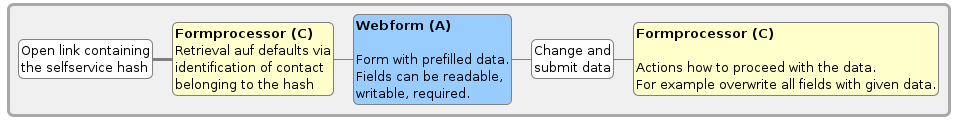
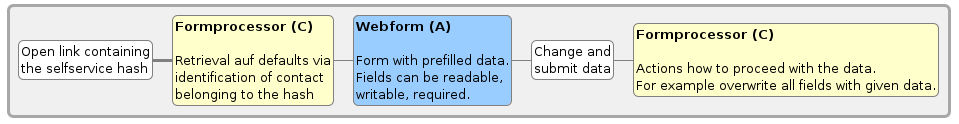
Change email images

Changed region(s): [[0.0, 0.0242, 0.9979, 0.9677]]

diff --git a/docs/img/selfservice-scheme.mm b/docs/img/selfservice-scheme.mm
@@ -82,7 +82,6 @@
     </p>
   </body>
 </html>
-
 </richcontent>
 <node TEXT="Enter email&#xa;address" STYLE_REF="Automatischer Prozess" ID="ID_315789229" CREATED="1697636598516" MODIFIED="1697637776347" BACKGROUND_COLOR="#ffffff" STYLE="bubble">
 <edge STYLE="bezier"/>
@@ -160,7 +159,7 @@
 </node>
 <node TEXT="Open Webform with&#xa;prefilled data" POSITION="right" ID="ID_1400766296" CREATED="1697636981696" MODIFIED="1697637032330">
 <node TEXT="Open link containing&#xa;the selfservice hash" LOCALIZED_STYLE_REF="defaultstyle.floating" ID="ID_1631013222" CREATED="1692282076383" MODIFIED="1697637032325" BACKGROUND_COLOR="#ffffff" STYLE="bubble" HGAP_QUANTITY="72.4999982565642 pt" VSHIFT_QUANTITY="-27.749999172985582 pt">
-<node STYLE_REF="Automatischer Prozess" ID="ID_1159334986" CREATED="1692285880006" MODIFIED="1697637596545" BACKGROUND_COLOR="#ffffcc" STYLE="bubble"><richcontent TYPE="NODE">
+<node STYLE_REF="Automatischer Prozess" ID="ID_1159334986" CREATED="1692285880006" MODIFIED="1697702447478" BACKGROUND_COLOR="#ffffcc" STYLE="bubble"><richcontent TYPE="NODE">
 
 <html>
   <head>
@@ -168,7 +167,11 @@
   </head>
   <body>
     <p>
-      <b>Formprocessor (C)</b><br/>
+      <b>Formprocessor (C) </b>
+    </p>
+    <p>
+      <br/>
+      
     </p>
     <p>
       Retrieval auf defaults via<br/>identification of contact<br/>belonging to the hash
@@ -220,7 +223,6 @@
     </p>
   </body>
 </html>
-
 </richcontent>
 </node>
 </node>

diff --git a/docs/use-case.md b/docs/use-case.md
@@ -19,6 +19,7 @@ This is a scheme to demonstrate the workflow of the extension:
 ![Scheme send email](./img/selfservice-scheme-send-email.png)
 
 ![Scheme update data](./img/selfservice-scheme-update-data.png)
+
 _Blue: Drupal level, Yellow: CiviCRM level, White: Manual interaction_
 
 ## User experience
@@ -45,12 +46,15 @@ This could be an example for the message template that is sent if the contact ca
 
 ![Message Template E-Mail Identified](./img/selfservice-template-email-identified.png)
 
-
 The token `{PersonalisedLink.link_webformA}` does not exist yet and will be configured in the next step.
 
-This could be an example for the message template that is sent if no contact exists in CiviCRM or the email address exists for different contacts:
+This could be an example for the message template that is sent if no contact exists in CiviCRM:
 
-![Message Template E-Mail Not Identified](./img/selfservice-template-email-not-identified.png)
+![Message Template E-Mail Unknown](./img/selfservice-template-email-unknown.png)
+
+and this is an example for the message templet if the email address exists for different contacts:
+
+![Message Template E-Mail Ambiguous](./img/selfservice-template-email-ambiguous.png)
 
 
 ### Configuration of the Selfservice extension
